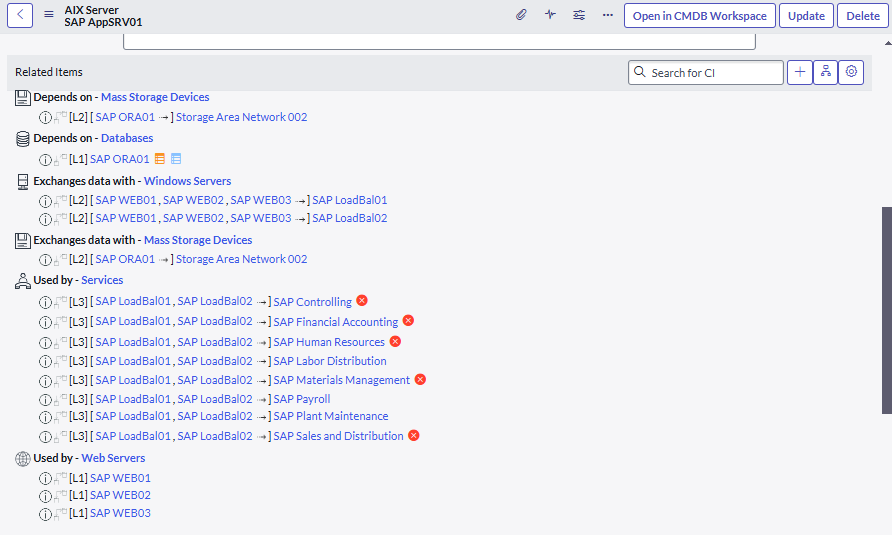
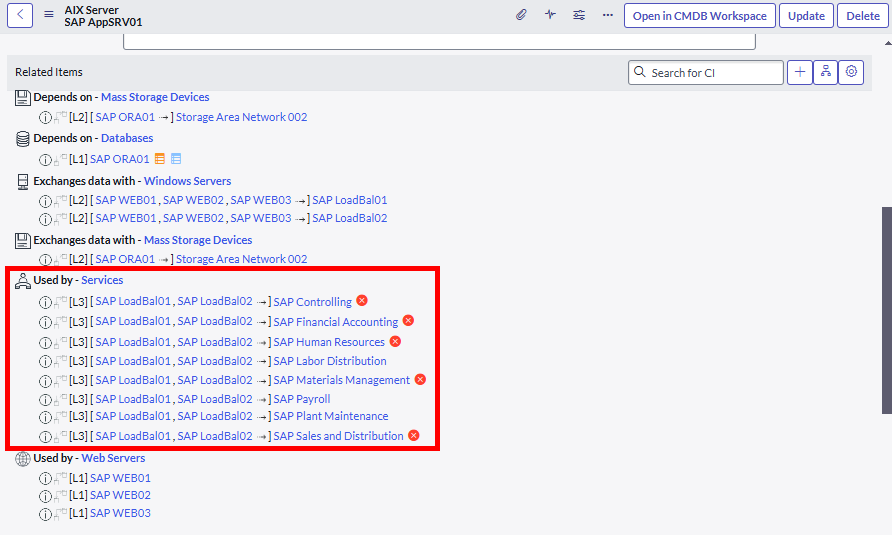
update - how to find ci service

Changed region(s): [[0.0, 0.4785, 0.5146, 0.8673]]

diff --git a/src/posts/2025-03-24-find-ci-service/index.md b/src/posts/2025-03-24-find-ci-service/index.md
@@ -10,8 +10,14 @@ eleventyExcludeFromCollections: false
 ---
 
 ## The CI Dependency View 
-From the Dependency View, you can click on a CI in the graph and see the services it supports by: 
+From the Dependency View can show related services in the "Details" section at the bottom of the page.
 
+1. Open a CI.
+1. Click on the "Dependency Views" button in top-right of the relationship formatter.
+
+[![Dependency Views button on the Relationship Formatter](relationship-formatter-dependency-button.png)](relationship-formatter-dependency-button.png)
+
+Then you can view related services by:
 1. Clicking on "Details". 
 1. Clicking on "Related Services". 
 
@@ -39,7 +45,7 @@ The table "Service Configuration Item Associations" [svc_ci_assoc] is a regularl
 
 [![cmdb_ci_assoc](cmdb_ci_assoc.png)](cmdb_ci_assoc.png)
 
-So what makes records in this table? 
+So what kinds of services will make these links? 
 
 * Mapped services? **Yes** 
 * Tag-based services? **Yes** 
@@ -57,20 +63,12 @@ The function `servicesAffectedByCI` gets services by:
 * Getting services by relationship by running `SNC.CMDBUtil.getRelatedServices(ci, maxDepth, maxSize)` 
 * Getting services by mapped services by running `SNC.BusinessServiceManager().getServicesAssociatedWithCi(ci, useSvcCiAssoc)` 
 
-It looks like it's driven by the table: 
-
-`svc_ci_assoc`
-
-This table is apparently an m2m table linking CIs to the services that they support. 
-
-However, the Java class `SNC.CMDBUtil.getRelatedServicesV2(id, maxDepth (10), maxSize (1,000) )` **will find services for a CI that were related manually**, in improvement over just using the [svc_ci_assoc] table. 
-
-Here's an example using the script to get services related to a CI. 
+Here's an example script using `servicesAffectedByCI` to find all of the services that a CI is related to.
 
 ```js 
 var id = "3a70f789c0a8ce010091b0ea635b982a"; 
 
-var services = j2js(SNC.CMDBUtil.getRelatedServices(id, 10, 1000)); 
+var services = new global.CIUtils().servicesAffectedByCI(id); 
 
 for (var i=0; i < services.length; i++) { 
     var serviceID = services[i]; 
@@ -79,12 +77,19 @@ for (var i=0; i < services.length; i++) {
     gs.print(""+(grS.getDisplayValue() || "(empty)")+" ("+serviceID+")"); 
 } 
 
-// *** Script: SAP Materials Management (26e44e8a0a0a0bb40095ff953f9ee520) 
-// *** Script: SAP Controlling (26e46e5b0a0a0bb4005d1146846c429c) 
-// *** Script: SAP Sales and Distribution (26e494480a0a0bb400ad175538708ad9) 
-``` 
+// *** Script: SAP Materials Management (26e44e8a0a0a0bb40095ff953f9ee520)
+// *** Script: SAP Controlling (26e46e5b0a0a0bb4005d1146846c429c)
+// *** Script: SAP Sales and Distribution (26e494480a0a0bb400ad175538708ad9)
+// *** Script: SAP Enterprise Services (26da329f0a0a0bb400f69d8159bc753d)
+// *** Script: SAP Human Resources (26e51a2f0a0a0bb4008628d2254c42db)
+// *** Script: SAP Financial Accounting (26e426be0a0a0bb40046890d90059eaa)
+// *** Script: SAP Plant Maintenance (26ee44500a0a0bb4005561915af6d450)
+// *** Script: SAP Labor Distribution (26ed9ad90a0a0bb40035d0e9d2d6f0a2)
+// *** Script: SAP Payroll (26e540d80a0a0bb400660482030d04d8)
+```
 
-> **Dave's thoughts:** In the future, I'm going to try using this to automatically populate the "Impacted Services/CIs" related list on incidents. Watch this space! 
+> **Dave's thoughts:** This is cool and very effective, but pro-code level of difficulty. 
+> In the future, I'm going to try using this to automatically populate the "Impacted Services/CIs" related list on incidents. Watch this space! 
 
 
 ## Links 
